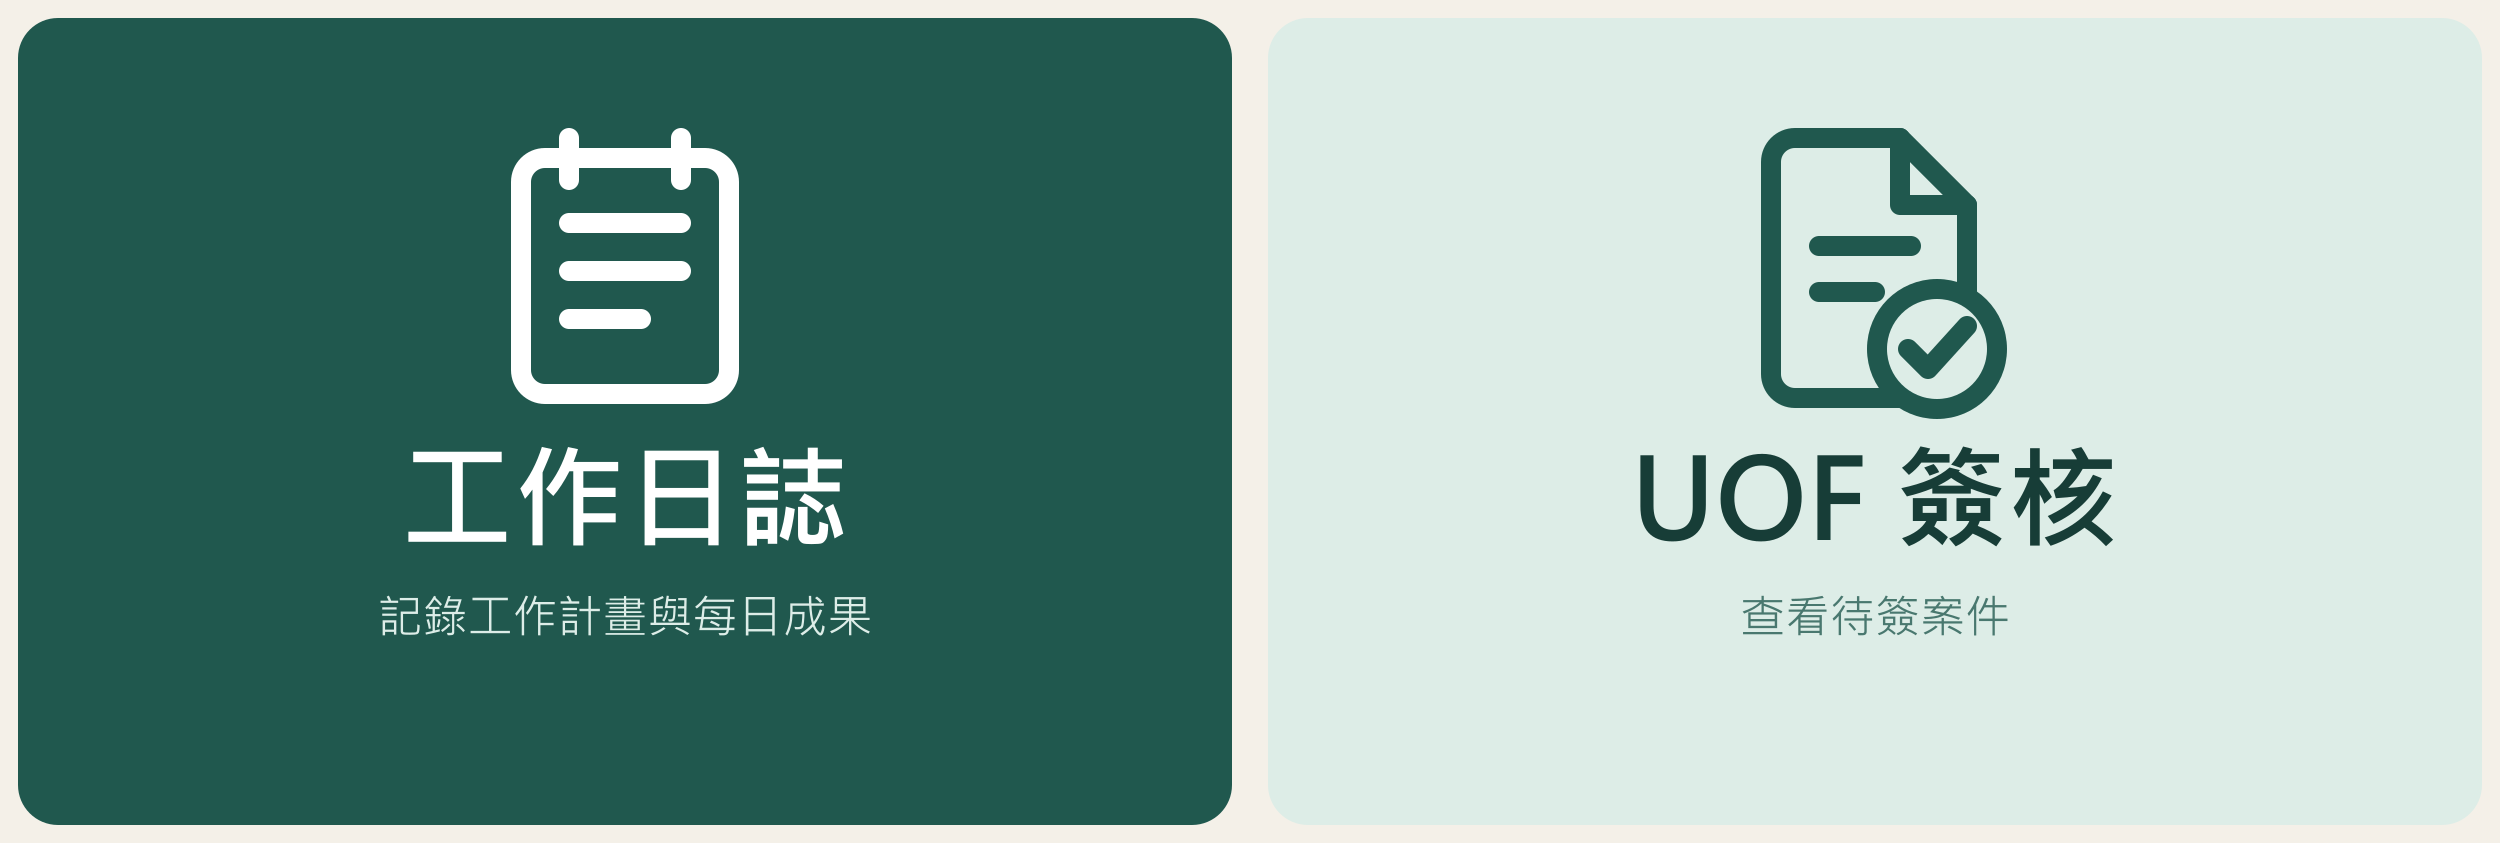
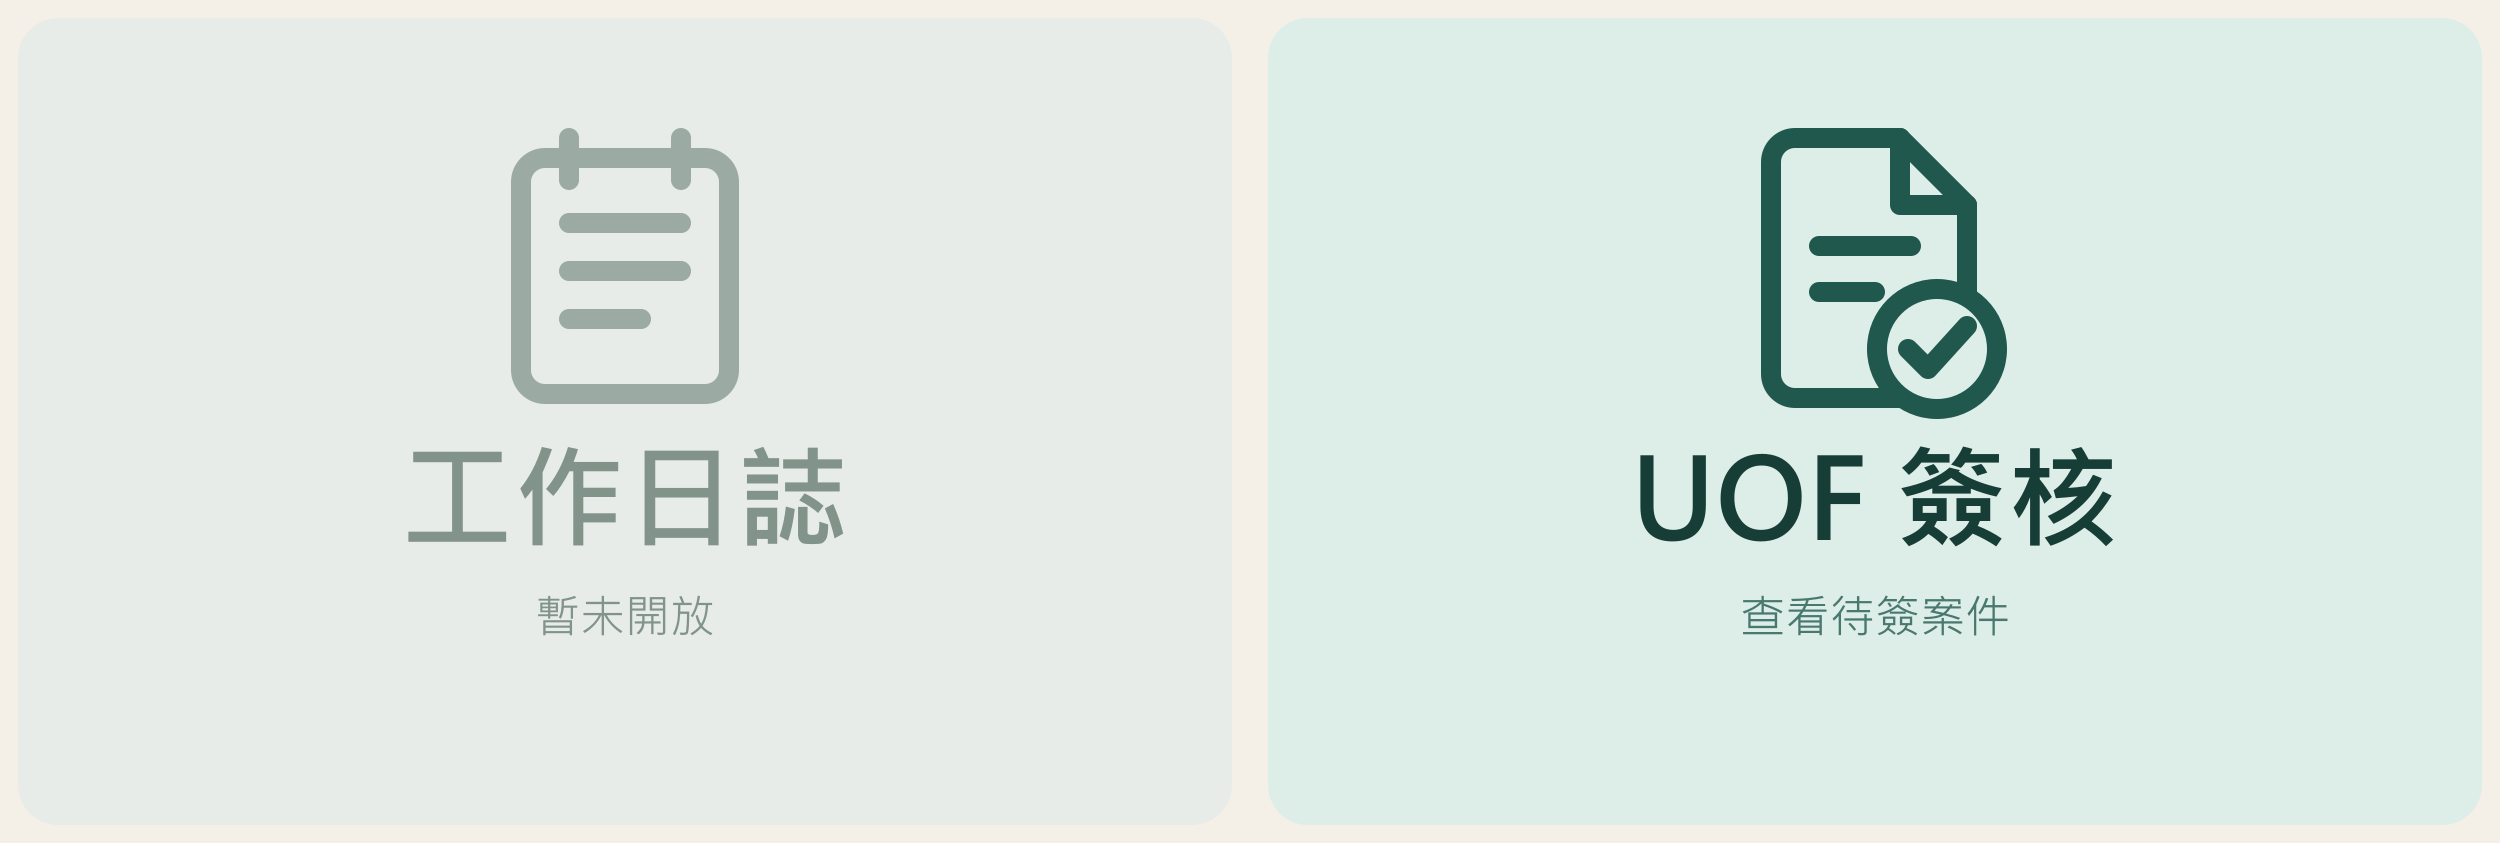
feat: enable UOF menu action and leave journal inactive

diff --git a/versions/AM-IMP-2026.1006.04/VERIFY.md b/versions/AM-IMP-2026.1006.04/VERIFY.md
@@ -1,13 +1,13 @@
 # Verify
 
-Inspect `assets/line/work-journal-uof-rich-menu.png`: two buttons only, readable Traditional Chinese labels, matching icons and no empty third area.
+Inspect `assets/line/work-journal-uof-rich-menu.png`: two tiles only, readable Traditional Chinese labels, muted journal tile with 暫未開放, active UOF tile and no empty third area.
 
 ```text
 node --check tools/apply-compact-rich-menu.mjs
-node tools/apply-compact-rich-menu.mjs --journal-url https://example.com/work-journal
+node tools/apply-compact-rich-menu.mjs
 node tools/check-upgrade-package.js AM-IMP-2026.1006.04
 ```
 
-The example URL is dry-run only and cannot be applied. The script checks 2500 × 843 image dimensions, file size, exactly two bounded click areas, confirmed channel identity and LINE API validation. Live application additionally checks the current default ID and both actions. No production application has occurred while the journal URL is missing.
+The script checks 2500 × 843 image dimensions, file size, exactly one right-side message action (待簽), confirmed channel identity and LINE API validation. There is no left-side click area and no URI action. Live application checks the current default ID and exact action array. Production receipts remain outside AMCore. End-user delivery of the existing UOF command is not triggered by the application script.
 
 Official LINE reference: https://developers.line.biz/en/reference/messaging-api/#rich-menu

diff --git a/versions/AM-IMP-2026.1006.04/INSTALL.md b/versions/AM-IMP-2026.1006.04/INSTALL.md
@@ -1,10 +1,10 @@
 # Install
 
-Confirm the work journal's actual HTTPS URL is usable on a phone before applying. A local-only address cannot be used.
+The work journal is intentionally inactive; no URL is configured.
 
 ```text
-node tools/apply-compact-rich-menu.mjs --journal-url <HTTPS_URL>
-node --env-file=<project-local-env> tools/apply-compact-rich-menu.mjs --journal-url <HTTPS_URL> --expected-bot <verified-basic-id> --receipt <outside-AMCore-receipt.json> --apply
+node tools/apply-compact-rich-menu.mjs
+node --env-file=<project-local-env> tools/apply-compact-rich-menu.mjs --expected-bot <verified-basic-id> --receipt <outside-AMCore-receipt.json> --apply
 ```
 
-The script verifies the channel identity, journal HTTP response, LINE object validation and image dimensions before creating a menu. It uploads the image before switching the default and verifies the result. Keep the former menu for rollback. Do not link user-specific menus automatically or change runtime enablement. Existing per-user menus may retain priority over the account default.
+The script verifies the channel identity, LINE object validation and image dimensions before creating a menu. It uploads the image before switching the default and verifies the result and exact UOF action. Keep the former menu for rollback. Do not link user-specific menus automatically or change runtime enablement. Existing per-user menus may retain priority over the account default.

diff --git a/versions/AM-IMP-2026.1006.04/README.md b/versions/AM-IMP-2026.1006.04/README.md
@@ -1,7 +1,7 @@
 # Compact work journal / UOF Rich Menu
 
-Status: Ready. Live LINE application awaits the work journal's mobile-accessible HTTPS URL.
+Status: Ready. The user requested applying UOF now while pausing the journal entry.
 
-A 2500 × 843 single-row menu has exactly two equal areas: 工作日誌 opens the confirmed journal URL; UOF 簽核 sends 待簽 to the existing independent UOF flow. The paused AM private assistant stays paused. No runtime or tenant data migration is required.
+A 2500 × 843 single-row menu shows two tiles. 工作日誌 is muted, labelled 暫未開放 and has no action or link. UOF 簽核 is the only tappable area and sends 待簽 to the existing independent UOF flow. The paused AM private assistant stays paused. No runtime or tenant data migration is required.
 
-The SVG extends the existing green Rich Menu icon style. Its rendered PNG and JSON click bounds are included. The journal URL is supplied at application time; the package contains no LINE tokens, channel/menu IDs or production receipts.
+The SVG extends the existing green Rich Menu icon style. Its rendered PNG and JSON click bounds are included. No journal URL is needed. The package contains no LINE tokens, channel/menu IDs or production receipts.

diff --git a/docs/tenants/hozo-am-2-0/project-improvement-manifest.md b/docs/tenants/hozo-am-2-0/project-improvement-manifest.md
@@ -10,6 +10,7 @@ Environment prefix: `HZ2`
 
 | Version | Status | Capability | Scope | Notes |
 | --- | --- | --- | --- | --- |
+| `AM-IMP-2026.1006.04` | Ready | Compact journal / UOF Rich Menu | Shared LINE account menu | Journal inactive with no link; UOF message action 待簽; LINE application pending. |
 | `AM-IMP-2026.1006.02` | Ready | Pause entire one-to-one private assistant | Root Platform LINE user events | Stop before intake and all replies; group/room routing retained; production verification pending. |
 | AM-IMP-2026.1004.07 | Deployed | Retrieve archived LINE attachments | Exact quote or complete filename in the same conversation; verified Drive link | Main e92dc4c live; retrieval contract and tenant archive readiness verified; real LINE delivery remains user acceptance. |
 | `AM-IMP-2026.1004.05` | Installed | LINE staff income and expense | Root Platform tenant adapter | LINE sender and authority checks; Maggie <=30,000 / Seven >30,000; reviewed cash posting. |

diff --git a/docs/tenants/hozo-am-2-0/upgrades/AM-IMP-2026.1006.04-compact-rich-menu.md b/docs/tenants/hozo-am-2-0/upgrades/AM-IMP-2026.1006.04-compact-rich-menu.md
@@ -1,0 +1,7 @@
+# AM-IMP-2026.1006.04 — Compact Rich Menu
+
+Status: Ready. Target LINE application pending.
+
+The account menu becomes a single row with two visual tiles. 工作日誌 is marked 暫未開放 with no link or click area. UOF 簽核 sends 待簽 through the existing independent UOF route. AM private assistant enablement is unchanged.
+
+SVG/PNG visual inspection, exact click bounds, script syntax and package completeness checks passed. The application script validates the actual target account and LINE object, uploads before switching the default and verifies exact actions. Production receipts remain outside AMCore; old Manager/default menus are retained for rollback. No LINE chat messages are sent by this installation.
